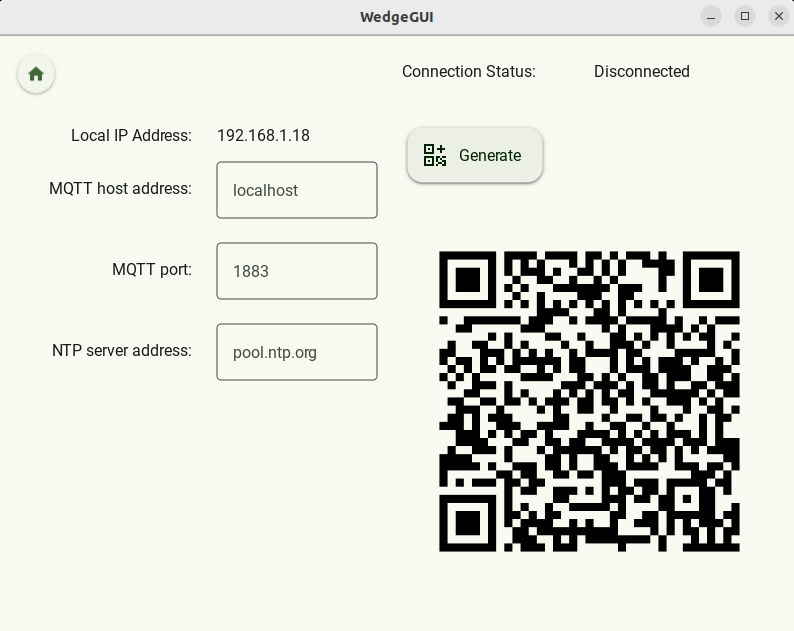
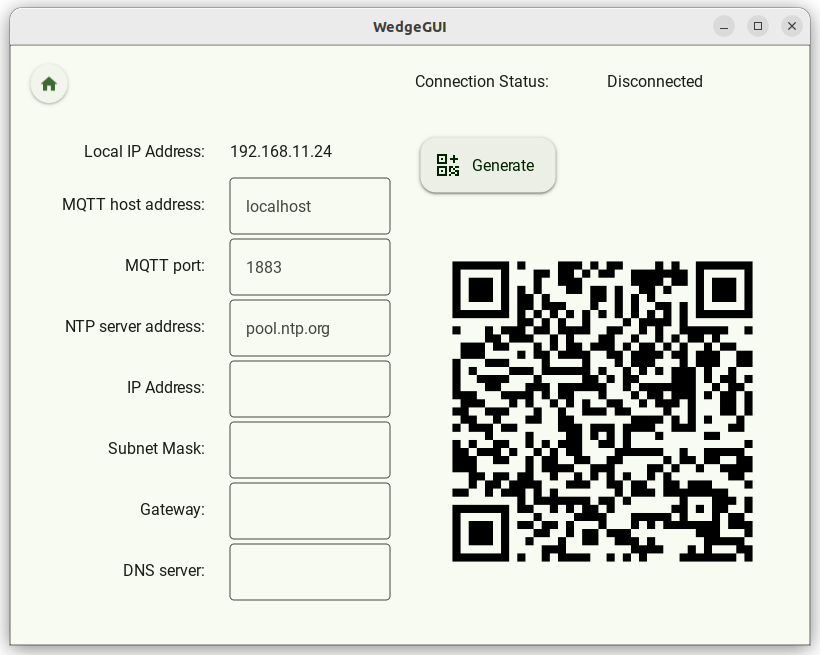
feat(gui): update README for adding configuration of static ip address

diff --git a/docs/testing/README.md b/docs/testing/README.md
@@ -52,6 +52,19 @@ wedge-cli gui
 
 In this view the user can configure the connection settings.
 
+- IP Address
+    - (If using static IP) Static IP address for the device
+    - (If using DHCP) Blank
+- Subnet Mask
+    - (If using static IP) Subnet mask
+    - (If using DHCP) Blank
+- Gateway
+    - (If using static IP) IP address of gateway
+    - (If using DHCP) Blank
+- DNS
+    - (If using static IP) DNS IP address
+    - (If using DHCP) Blank
+
 Notice that,
 
 ![connection-qr-message](assets/connection-qr-message.png)
